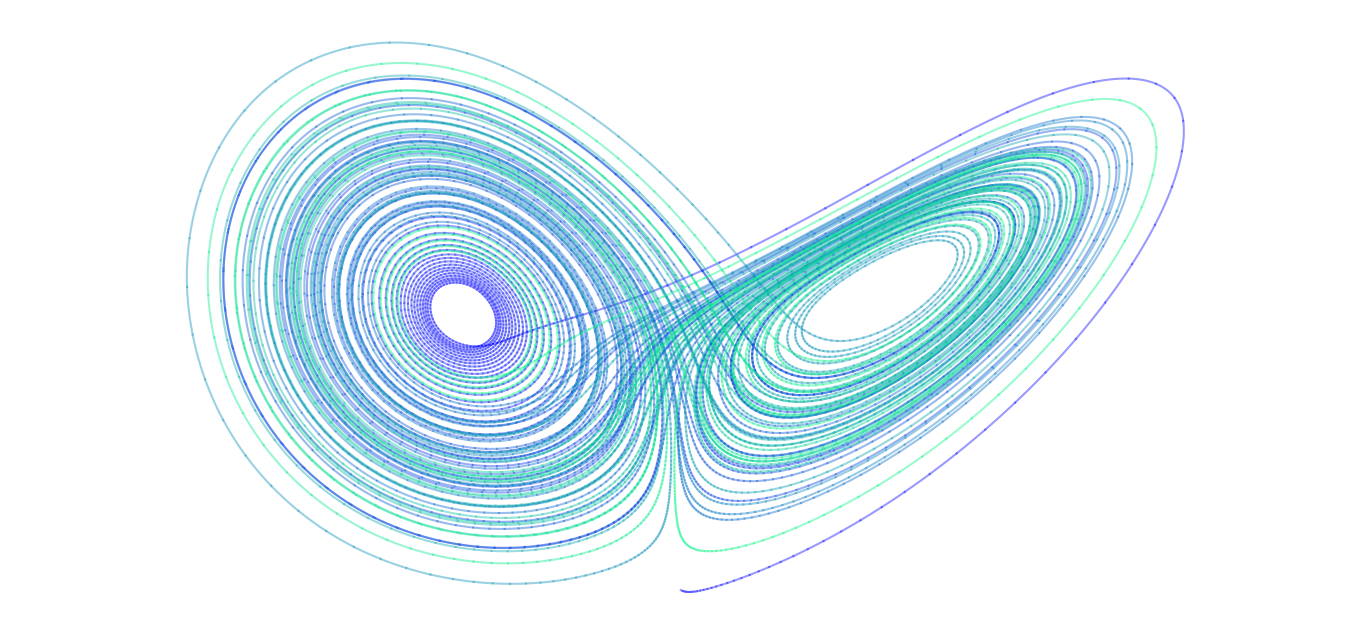
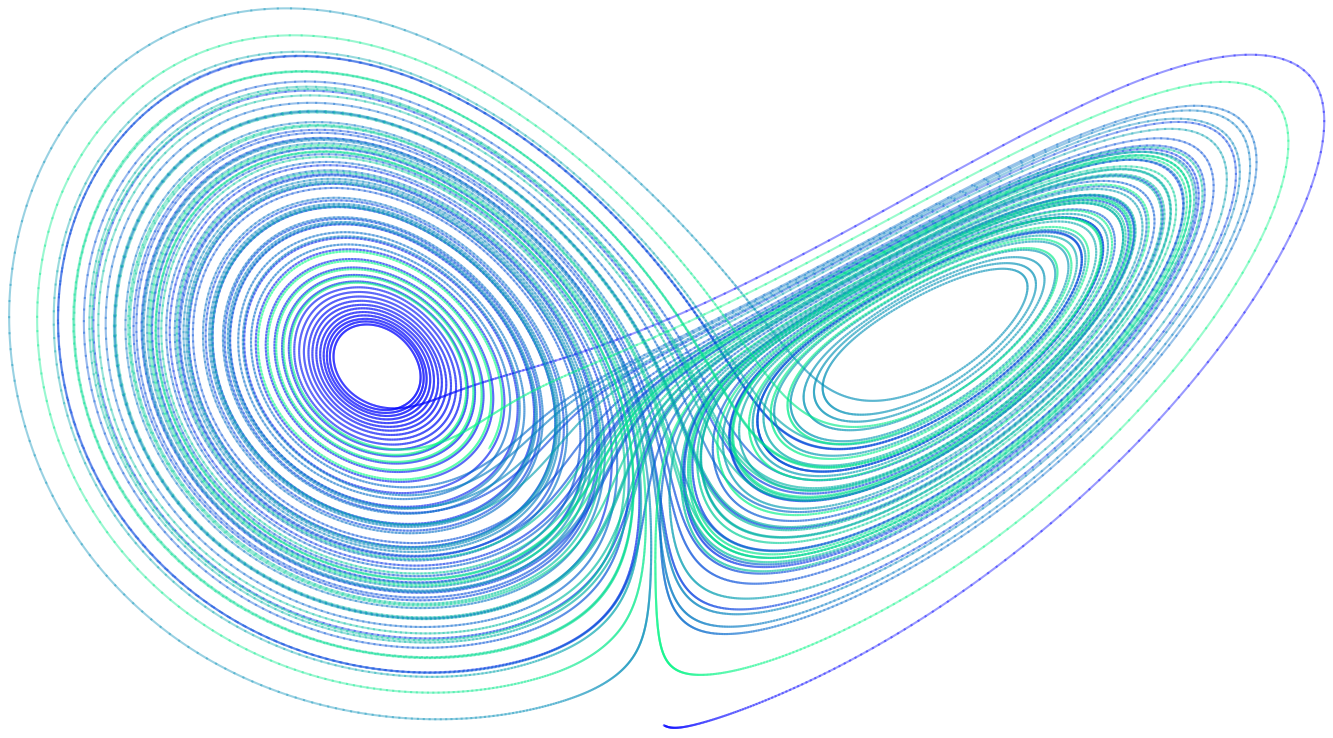
lorenz attractor.

diff --git a/docs/img/lorenz.py b/docs/img/lorenz.py
@@ -16,7 +16,7 @@ sigma, beta, rho = 10, 2.667, 28
 u0, v0, w0 = 0, 1, 1.05
 
 # Maximum time point and total number of time points.
-tmax, n = 100, 100000
+tmax, n = 100, 400000
 
 def lorenz(t, X, sigma, beta, rho):
     """The Lorenz equations."""
@@ -34,10 +34,11 @@ t = np.linspace(0, tmax, n)
 x, y, z = soln.sol(t)
 
 # Plot the Lorenz attractor using a Matplotlib 3D projection.
-fig = plt.figure(facecolor='k', figsize=(WIDTH/DPI, HEIGHT/DPI))
+# fig = plt.figure(facecolor='k', figsize=(WIDTH/DPI, HEIGHT/DPI))
+fig = plt.figure()
 # ax = fig.gca(projection='3d')
 ax = fig.add_subplot(projection = '3d')
-# ax.set_facecolor('k')
+ax.set_facecolor('w')
 fig.subplots_adjust(left=0, right=1, bottom=0, top=1)
 
 # Make the line multi-coloured by plotting it in segments of length s which

diff --git a/docs/index.md b/docs/index.md
@@ -1,8 +1,5 @@
 
 欢迎来到**了那**的 WiKi.
 
+<img src="img/shotfig.png" alt="drawing" width="600"/>
 
-<figure markdown>
-  ![lorenz](img/shotfig.png)
-  <figcaption>Fig 1: The Lorenz attractor </figcaption>
-</figure>
